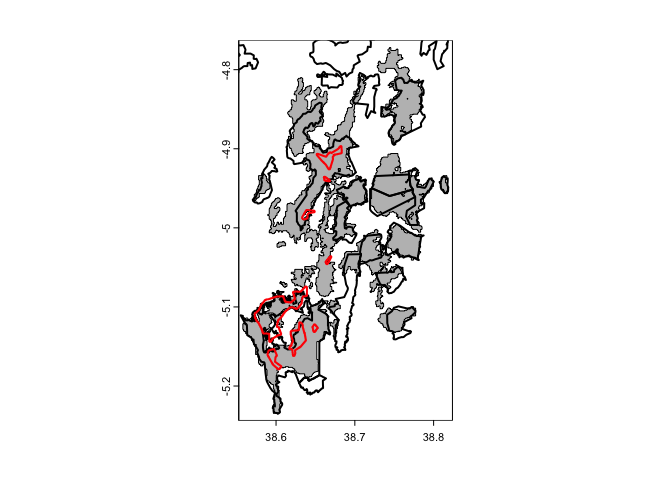
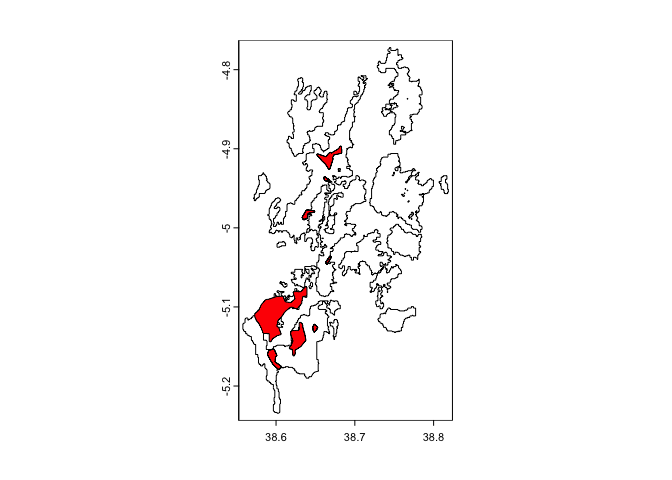
updated code and figures

diff --git a/Appendix1.md b/Appendix1.md
@@ -790,12 +790,49 @@ summary(dists[dists<1000&dists>0])
     ##   7.074 397.154 622.609 605.489 829.639 998.822
 
 ``` r
+set.seed(815)
+
 # create concave shapefiles around points
 poly_pop <- function(shp,n){
   shp %>%
     filter(Population == n) %>%
     concaveman(concavity = 0.05,length_threshold = 0.01)
 }
+```
+
+``` r
+# check variation
+# run multiple times; reported value here.
+
+totals <- NULL
+for(i in 1:100){
+  set.seed(i)
+  poly1 <- poly_pop(occ,1)
+  poly2 <- poly_pop(occ,2)
+  poly3 <- poly_pop(occ,3)
+  poly4 <- poly_pop(occ,4)
+  poly5 <- poly_pop(occ,5)
+  poly6 <- poly_pop(occ,6)
+  poly7 <- poly_pop(occ,7)
+  poly8 <- poly_pop(occ,8)
+  
+  polyx <- rbind(poly1,poly2,poly3,
+                 poly4,poly5,poly6,
+                 poly7,poly8)
+  
+  buff_poly <- st_buffer(polyx,dist = 100)
+  areas <- expanse(vect(buff_poly))
+  # divide by 1,000,000 for sq km
+  areas_km <- areas/1000000
+  totals[i] <- sum(areas_km)
+}
+```
+
+In a trial of 100 runs, the total area did not vary. May vary if
+computer restarted.
+
+``` r
+# reported values 
 
 poly1 <- poly_pop(occ,1)
 poly2 <- poly_pop(occ,2)
@@ -850,10 +887,17 @@ poly_plotter <- function(polygon,side = NULL,label,colour){
 
 ``` r
 pts_vect <- vect(pts)
+allparks <- vect(paste0(filepath,"ne_tz_parks.gpkg"))
 
-plot(pts_vect,pch=19,col="grey",
+parks <- allparks[allparks$NAME%like%"Nilo"|allparks$NAME%like%"Amani"]
+
+plot(pts_vect,pch=19,col="darkgrey",
      xlab = "Longitude",ylab = "Latitude",
      xlim=c(38.45,38.75))
+plot(parks,add=T,lwd = 0.25,col = "seashell")
+points(pts_vect,pch=19,col="darkgrey")
+
+
 poly_plotter(polygon = poly1, side = "left",
              label = 1, colour = "red")
 poly_plotter(polygon = poly2, side = "right",
@@ -870,10 +914,10 @@ poly_plotter(polygon = poly7, side = "right",
              label = 7, colour = "pink")
 poly_plotter(polygon = poly8, side = "right",
              label = 8, colour = "lightblue")
-sbar(5,xy = c(38.5,-4.955),below = "km",adj = c(0.5,-1.5))
+sbar(5,xy = c(38.5,-5),below = "km",adj = c(0.5,-1.5))
 ```
 
-![](Appendix1_files/figure-gfm/unnamed-chunk-59-1.png)<!-- -->
+![](Appendix1_files/figure-gfm/unnamed-chunk-61-1.png)<!-- -->
 
 ``` r
 polyx <- rbind(poly1,poly2,poly3,
@@ -887,36 +931,42 @@ buff_poly <- st_buffer(polyx,dist = 100)
 plot(buff_poly)
 ```
 
-![](Appendix1_files/figure-gfm/unnamed-chunk-60-1.png)<!-- -->
+![](Appendix1_files/figure-gfm/unnamed-chunk-62-1.png)<!-- -->
 
 Here we have the buffered polygons around all the points that were
 shown. We buffer to 100 m to reflect the general area, but keep it
 restricted because these birds are territorial and non-migratory.
 
 ``` r
-areas <- st_area(buff_poly)
+areas <- expanse(vect(buff_poly))
 # divide by 1,000,000 for sq km
 areas_km <- areas/1000000
 
 print(areas_km)
 ```
 
-    ## Units: [m^2]
-    ## [1]  0.9838935  0.3423286 21.1566015  2.3142708  5.4421805  0.4681184  3.5150697
-    ## [8]  0.2841318
+    ## [1]  0.9795936  0.3408333 21.0642505  2.3041742  5.4184320  0.4660753  3.4996980
+    ## [8]  0.2828896
 
-These areas range between 21.2 km$^{2}$ for the largest area and less
+| Population Cluster | Area ($km^2$) |
+|--------------------|---------------|
+| Cluster 1          | 0.98          |
+| Cluster 2          | 0.34          |
+| Cluster 3          | 21.06         |
+| Cluster 4          | 2.3           |
+| Cluster 5          | 5.42          |
+| Cluster 6          | 0.47          |
+| Cluster 7          | 3.5           |
+| Cluster 8          | 0.28          |
+| Total              | 34.36         |
+
+These areas range between 21.06 km$^{2}$ for the largest area and less
 than a square kilometer for some of the outlier groups. Keep in mind it
 says “square meters”, but we are correcting for this by dividing by
 1,000,000.
 
-``` r
-sum(areas_km)
-```
-
-    ## 34.50659 [m^2]
-
-In total, the distribution of this species is approximately 36.3 km$^2$.
+In total, the distribution of this species is approximately 34.36
+km$^2$.
 
 ## Points in polygons
 
@@ -957,7 +1007,7 @@ ggplot(arti_coords,aes(Longitude,Latitude)) +
   theme(axis.text.x = element_text(angle = 90, vjust = 0.5, hjust=1))
 ```
 
-![](Appendix1_files/figure-gfm/unnamed-chunk-65-1.png)<!-- -->
+![](Appendix1_files/figure-gfm/unnamed-chunk-66-1.png)<!-- -->
 
 ### Total number of points per polygon
 
@@ -984,7 +1034,7 @@ hist(pop_points$n,main="Records per point",
      xlab = "Sightings")
 ```
 
-![](Appendix1_files/figure-gfm/unnamed-chunk-67-1.png)<!-- -->
+![](Appendix1_files/figure-gfm/unnamed-chunk-68-1.png)<!-- -->
 
 ``` r
 ggplot(pop_points,aes(Longitude,Latitude)) +
@@ -994,7 +1044,7 @@ ggplot(pop_points,aes(Longitude,Latitude)) +
   theme(axis.text.x = element_text(angle = 90, vjust = 0.5, hjust=1))
 ```
 
-![](Appendix1_files/figure-gfm/unnamed-chunk-68-1.png)<!-- -->
+![](Appendix1_files/figure-gfm/unnamed-chunk-69-1.png)<!-- -->
 
 ``` r
 summary(pop_points$Population)
@@ -1055,7 +1105,7 @@ ggplot(datemat, aes(x=Year, y=Freq, group=Population, color=Population)) +
   ylab("Number of Records")
 ```
 
-![](Appendix1_files/figure-gfm/unnamed-chunk-71-1.png)<!-- -->
+![](Appendix1_files/figure-gfm/unnamed-chunk-72-1.png)<!-- -->
 
 # Comparing to forest patches
 
@@ -1074,12 +1124,14 @@ plot(forest_cover)
 plot(buff_poly,col = "red",add=T)
 ```
 
-![](Appendix1_files/figure-gfm/unnamed-chunk-72-1.png)<!-- -->
+![](Appendix1_files/figure-gfm/unnamed-chunk-73-1.png)<!-- -->
 
 # Comparing to protected areas
 
 ``` r
-parks <- vect(paste0(filepath,"ne_tz_parks.gpkg"))
+allparks <- vect(paste0(filepath,"ne_tz_parks.gpkg"))
+
+parks <- allparks[allparks$NAME%like%"Nilo"|allparks$NAME%like%"Amani"]
 
 plot(forest_cover,col = "grey")
 plot(parks,add=T,lwd = 2)
@@ -1089,7 +1141,7 @@ lines(buff_poly,col = "red",add=T,lwd = 2)
     ## Warning in graphics::plot.xy(g, type = "l", lty = lty, col = col, lwd = lwd, :
     ## "add" is not a graphical parameter
 
-![](Appendix1_files/figure-gfm/unnamed-chunk-73-1.png)<!-- -->
+![](Appendix1_files/figure-gfm/unnamed-chunk-74-1.png)<!-- -->
 
 ``` r
 # ecological niche model of Artisornis
@@ -1103,7 +1155,7 @@ plot(forest_cover,add=T)
 plot(buff_poly,add=T,col="red")
 ```
 
-![](Appendix1_files/figure-gfm/unnamed-chunk-75-1.png)<!-- -->
+![](Appendix1_files/figure-gfm/unnamed-chunk-76-1.png)<!-- -->
 
 ### Protected areas
 
@@ -1114,6 +1166,9 @@ plot(pts_vect,pch=".",col="black",
      xlab = "Longitude",ylab = "Latitude",
      xlim=c(38.45,38.75),
      ylim=c(-5.225,-4.825))
+
+# plot(npp,add=T) # greenness layer  
+
 # add protected areas
 plot(parks,col = "red",alpha = 0.25,add=T)
 # add forest cover
@@ -1131,13 +1186,13 @@ opar <- par(no.readonly = TRUE)
 # use par to add legend next to plot
 par(mar = c(5,5,4,8))
 baseplot(pts_vect)
-legend("topright",legend = c("Occurence Area","Forest",
+legend("topright",legend = c("Occurrence Area","Forest",
                              "PAs","PAs + Forest"),
            fill = c("black","blue","red","purple"),
        border = "black",xpd = TRUE, inset = c(-0.05,0))
 ```
 
-![](Appendix1_files/figure-gfm/unnamed-chunk-77-1.png)<!-- -->
+![](Appendix1_files/figure-gfm/unnamed-chunk-79-1.png)<!-- -->
 
 ``` r
 on.exit(par(opar))
@@ -1163,7 +1218,7 @@ points(pts_vect,pch=19,col="black",alpha = 0.33,
 sbar(5,xy = c(38.48,-5.05),below = "km",adj = c(0.5,-1.5))
 ```
 
-![](Appendix1_files/figure-gfm/unnamed-chunk-78-1.png)<!-- -->
+![](Appendix1_files/figure-gfm/unnamed-chunk-80-1.png)<!-- -->
 
 ## Differences between models
 
@@ -1174,7 +1229,7 @@ arti_theory2[arti_theory2>0] <- 1
 plot(arti_theory2)
 ```
 
-![](Appendix1_files/figure-gfm/unnamed-chunk-80-1.png)<!-- -->
+![](Appendix1_files/figure-gfm/unnamed-chunk-82-1.png)<!-- -->
 
 ``` r
 # convert to shapefile
@@ -1184,7 +1239,7 @@ arti_theory_poly <- arti_theory_poly_all[2]
 plot(arti_theory_poly,col="black")
 ```
 
-![](Appendix1_files/figure-gfm/unnamed-chunk-81-1.png)<!-- -->
+![](Appendix1_files/figure-gfm/unnamed-chunk-83-1.png)<!-- -->
 
 ``` r
 expanse(arti_theory_poly,unit="km")
@@ -1203,7 +1258,7 @@ plot(vect(buff_poly),col="grey")
 plot(arti_theory_poly,add=T)
 ```
 
-![](Appendix1_files/figure-gfm/unnamed-chunk-82-1.png)<!-- -->
+![](Appendix1_files/figure-gfm/unnamed-chunk-84-1.png)<!-- -->
 
 ``` r
 # create intersections
@@ -1254,7 +1309,7 @@ plot(buff_poly,add=T,col="grey")
 plot(occ[1],add=T,col="black",pch=".")
 ```
 
-![](Appendix1_files/figure-gfm/unnamed-chunk-84-1.png)<!-- -->
+![](Appendix1_files/figure-gfm/unnamed-chunk-86-1.png)<!-- -->
 
 We can compare area of these different polygons as well.
 
@@ -1294,19 +1349,19 @@ print("Protect Areas")
 sum(expanse(parks,unit="km"))
 ```
 
-    ## [1] 6589.168
+    ## [1] 142.2913
 
 ``` r
 min(expanse(parks,unit="km"))
 ```
 
-    ## [1] 0.0515389
+    ## [1] 58.81025
 
 ``` r
 max(expanse(parks,unit="km"))
 ```
 
-    ## [1] 3281.769
+    ## [1] 83.48107
 
 Note - these are broad areas.
 
